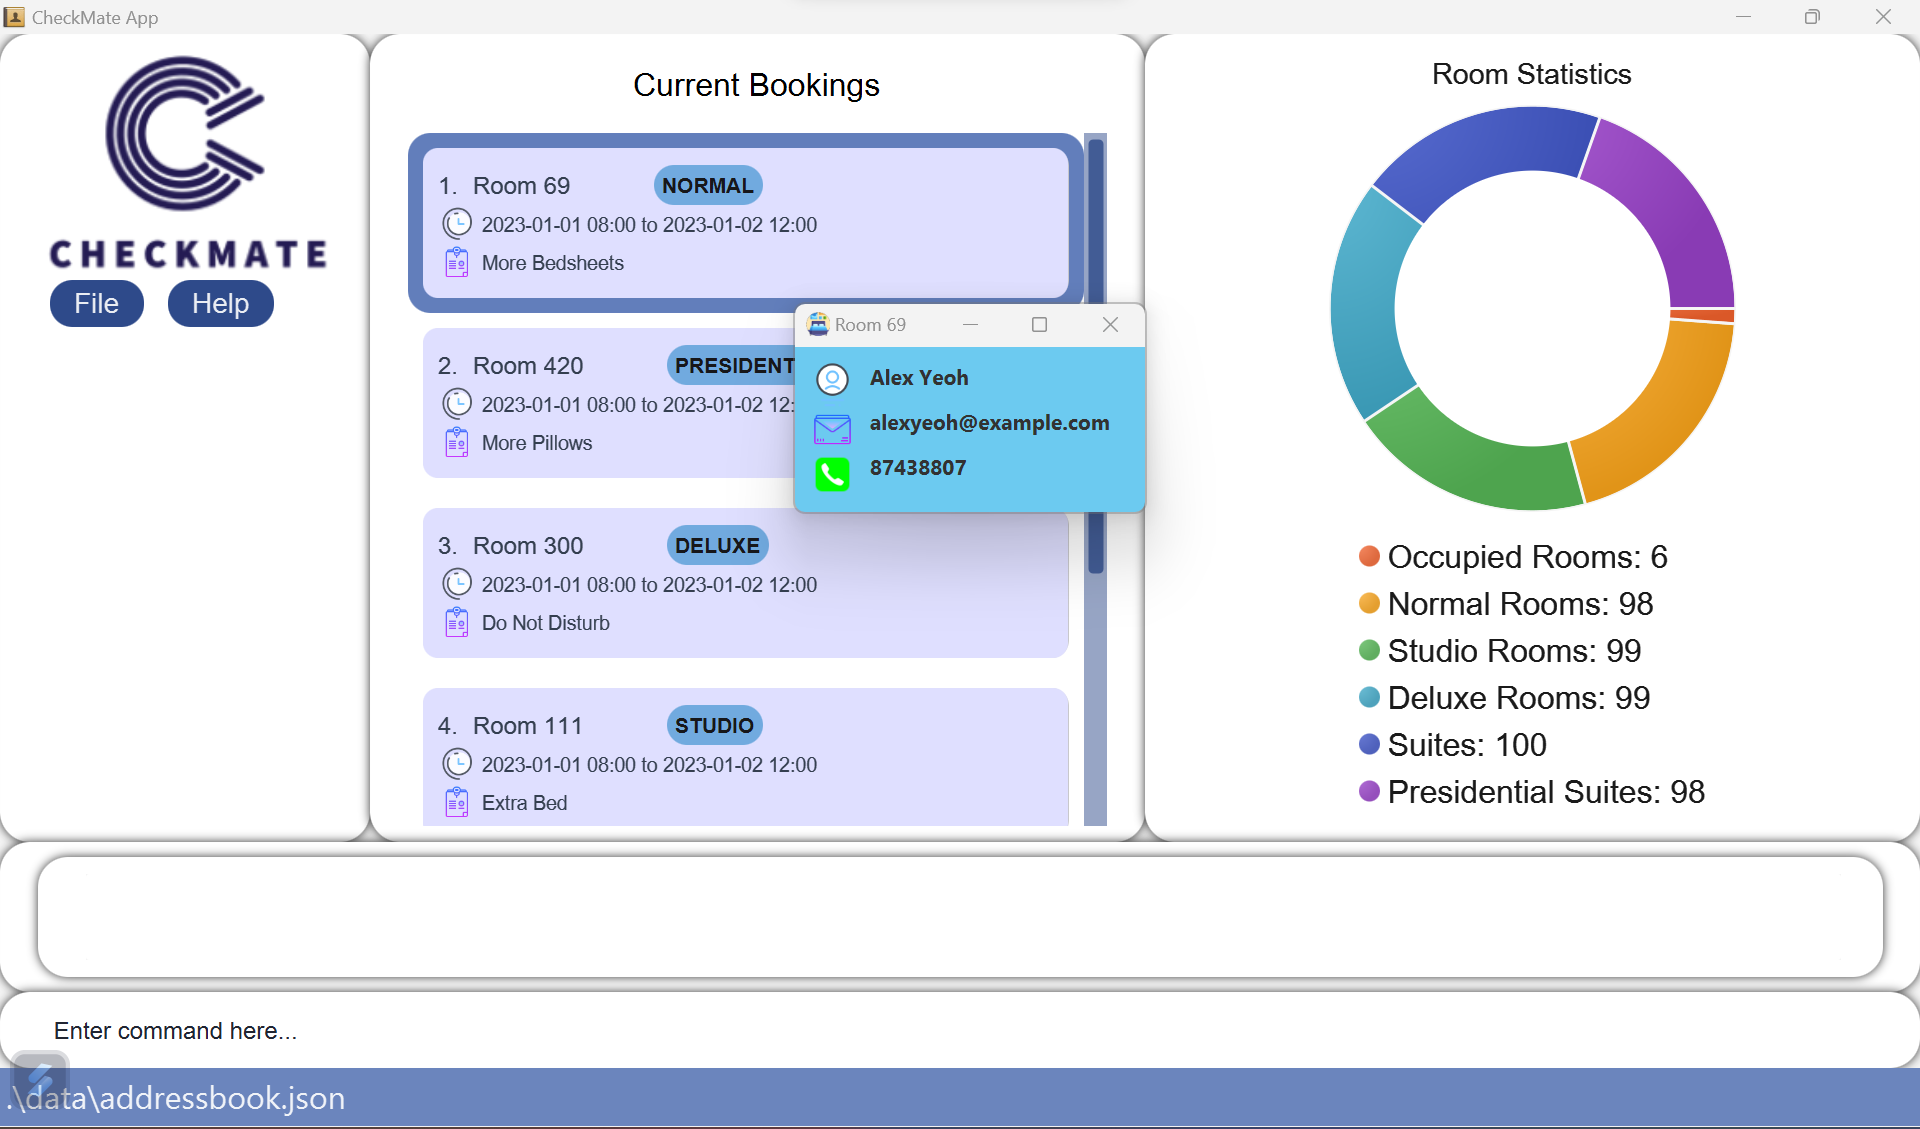
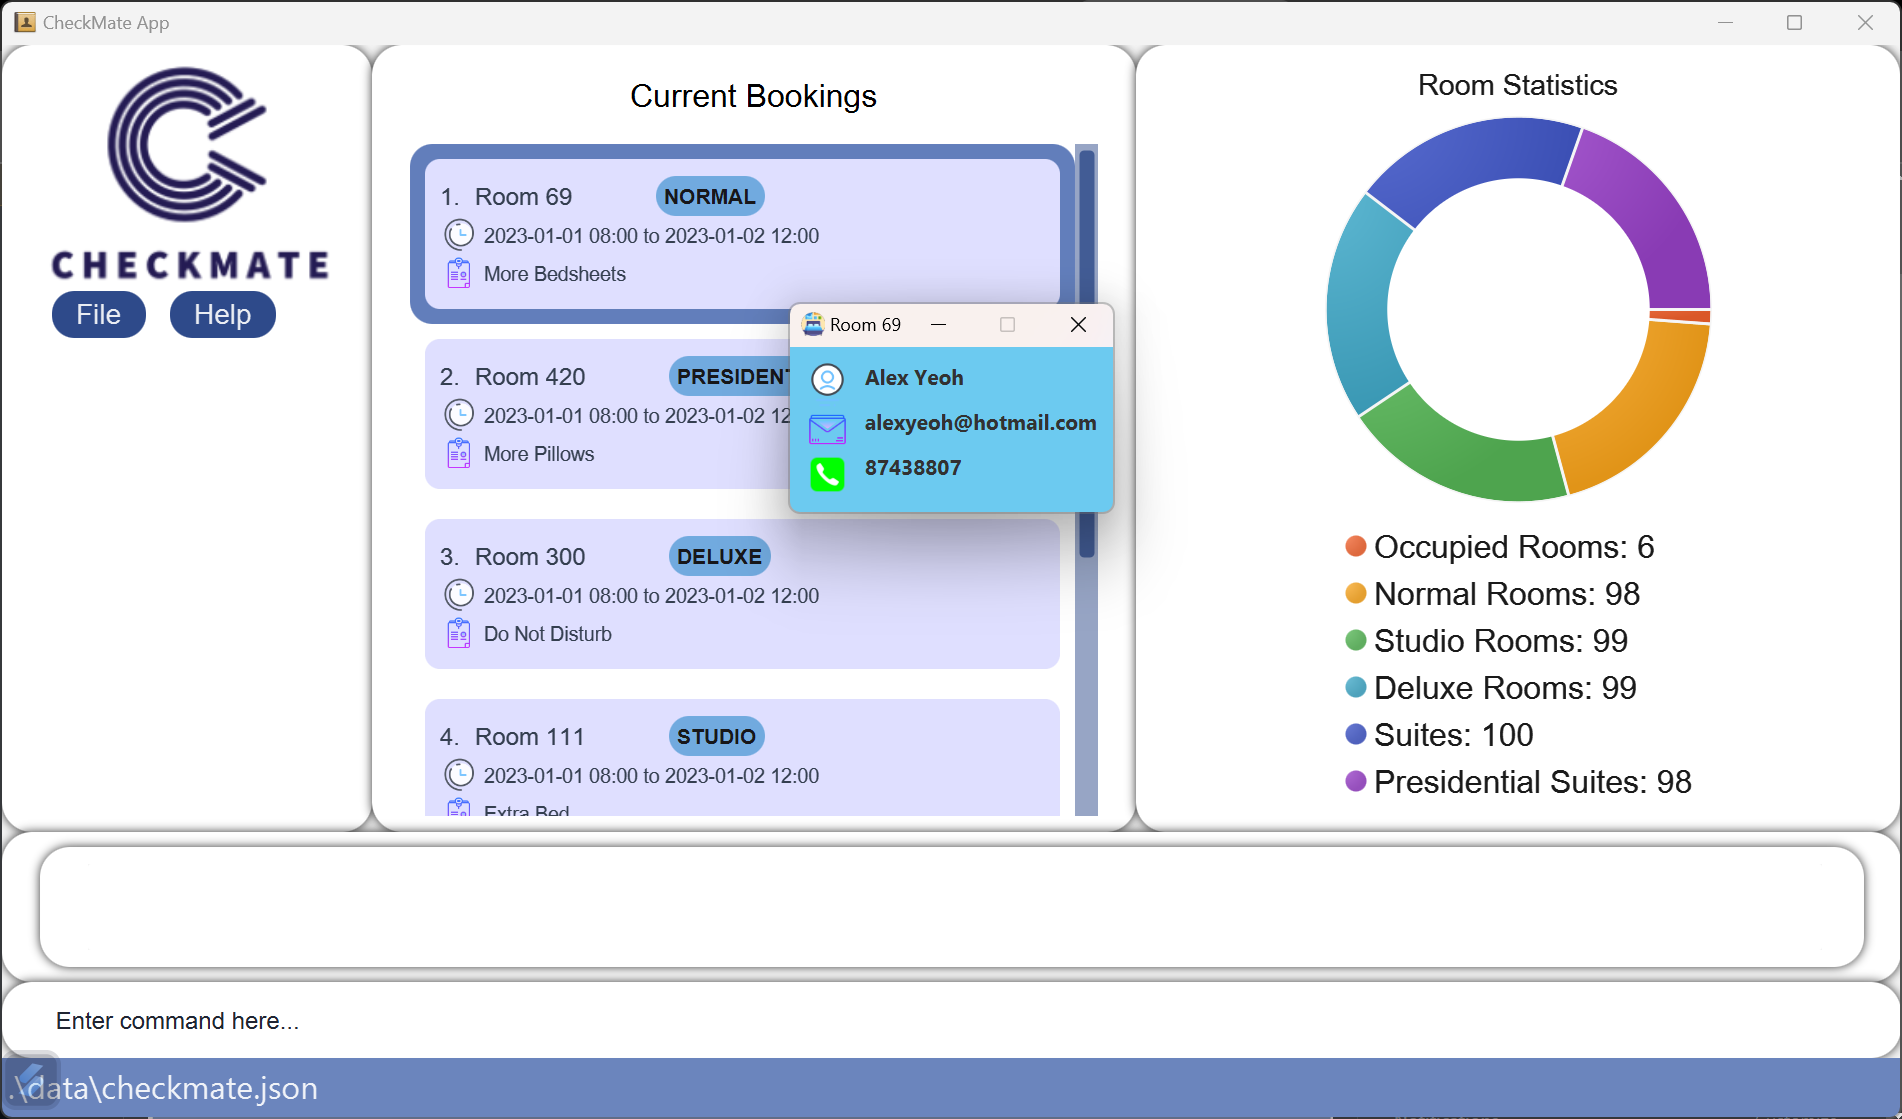
Update user guide screenshots
Previous images were outdated as email format has since changed.

Let's keep the user guide updated

diff --git a/docs/UserGuide.md b/docs/UserGuide.md
@@ -112,13 +112,13 @@ Format: `help`
 Adds a booking to the bookings book.
 
 Format: `add r/ROOM d/BOOKING_PERIOD n/NAME p/PHONE_NUMBER e/EMAIL rm/REMARK`
-![AddCommand.png](images%2FAddCommand.png)
+![AddBooking.png](images%2FAddBooking.png)
 
 <div markdown="span" class="alert alert-primary">:bulb: **Note:**
 The room number is used to assign the room type.
 </div>
 
-* Image above shows result of command `add r/1 d/2023-01-01 08:00 to 2023-01-02 12:00 n/John Doe p/98765432 e/johnd@gmail.com`
+* Image above shows result of command `add r/11 d/2023-01-01 08:00 to 2023-01-02 12:00 n/John Doe p/98765432 e/johnd@gmail.com`
 
 Examples:
 * `add r/1 d/2023-01-01 08:00 to 2023-01-02 12:00 n/John Doe p/98765432 e/johnd@gmail.com`
@@ -140,7 +140,7 @@ Edits an existing booking in the bookings book.
 
 Format: `edit INDEX [r/ROOM] [d/BOOKING_PERIOD] [n/NAME] [p/PHONE] [e/EMAIL]`
 
-![EditCommand.png](images%2FEditCommand.png)
+![EditBooking.png](images%2FEditBooking.png)
 
 * Example image above shows result of command `edit 1 p/91234567 e/johndoe@gmail.com`
 * Edits the booking at the specified `INDEX`. The index refers to the index number shown in the displayed booking list. The index **must be a positive integer** 1, 2, 3, …
@@ -178,7 +178,7 @@ Deletes the specified booking(s) from the bookings book.
 
 Format: `delete INDEX ...`
 
-![DeleteCommand.png](images%2FDeleteCommand.png)
+![DeleteBooking.png](images%2FDeleteBooking.png)
 
 * Example image above shows result of command `delete 2`
 * Deletes the booking at the specified `INDEX`.
@@ -197,7 +197,7 @@ Adds the most recently deleted booking back to the system.
 
 Format: `undo`
 
-![UndoCommand.png](images%2FUndoCommand.png)
+![UndoBooking.png](images%2FUndoBooking.png)
 
 * Example image above shows the result of command `undo`
 * If the deleted item was manually added back, then undo was performed, the deleted booking will not be added as it 
